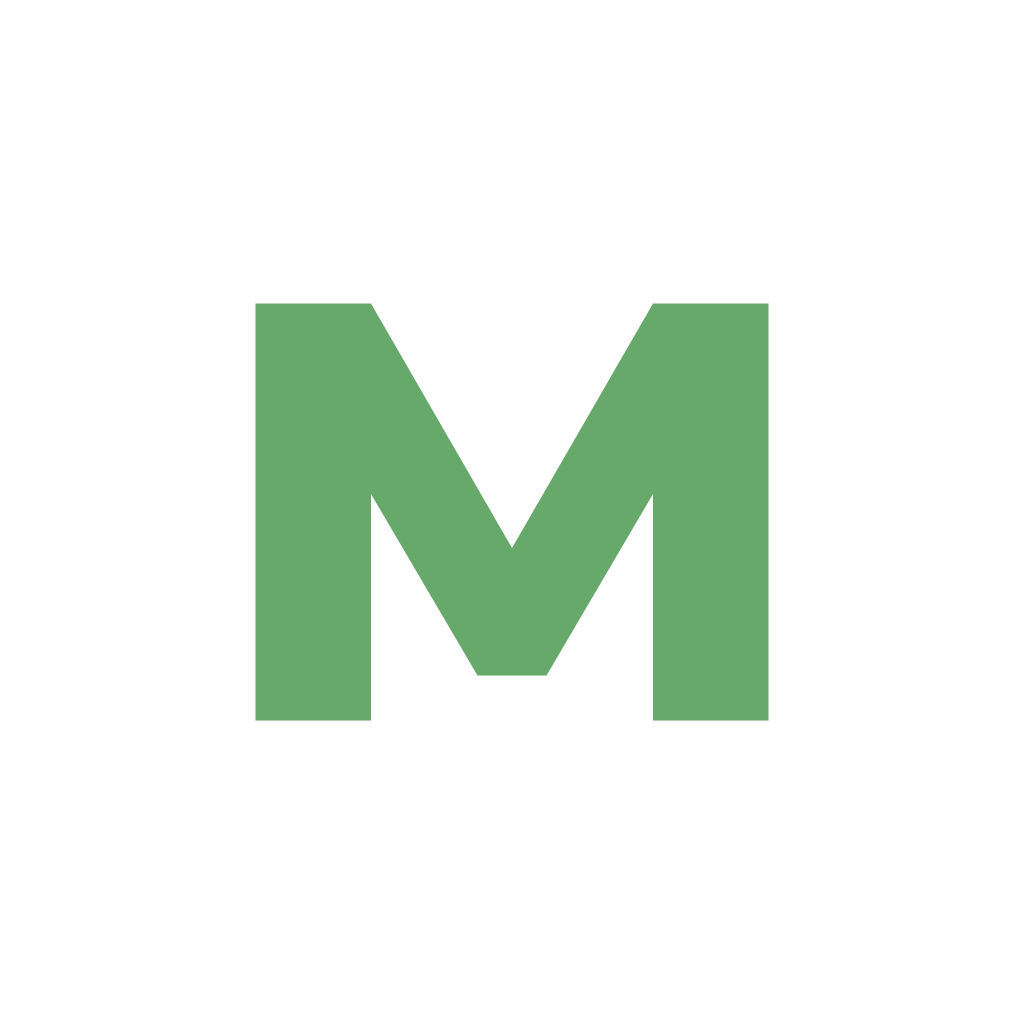
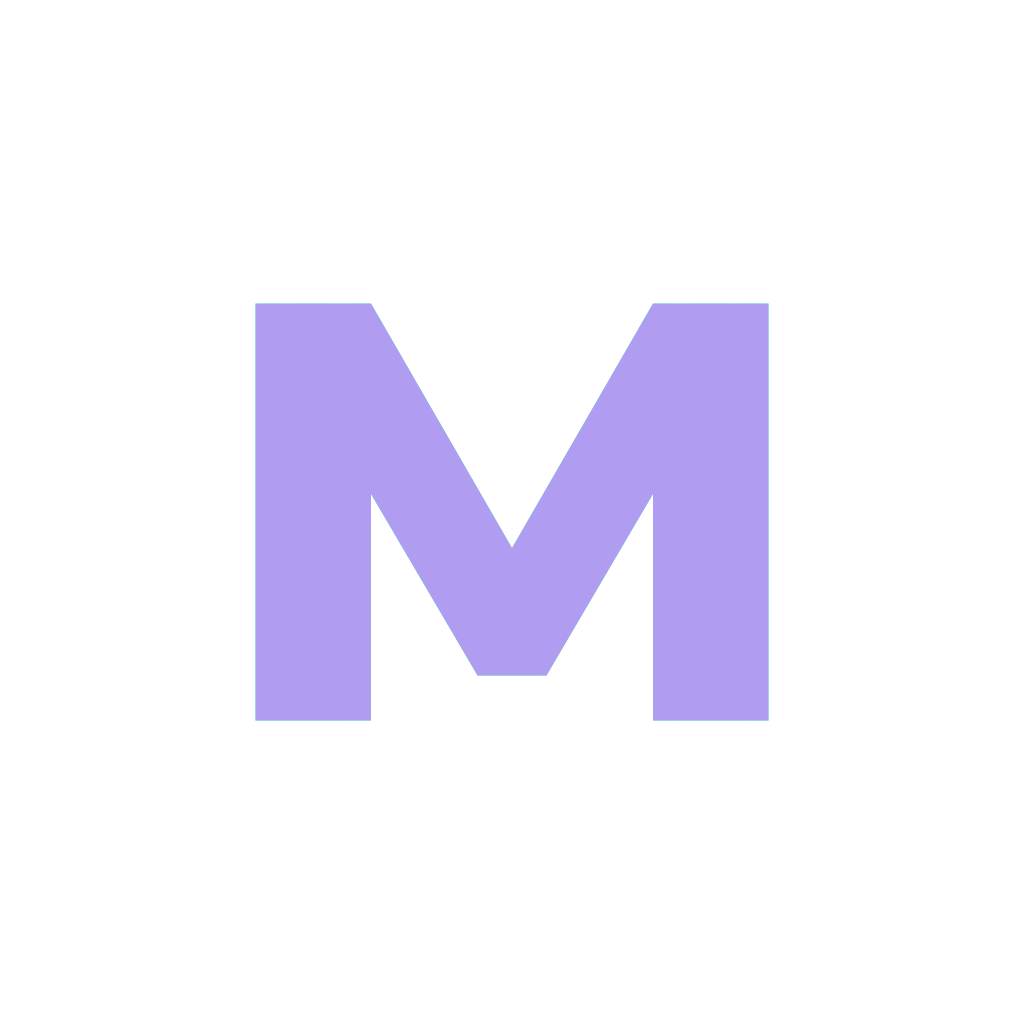
update assets with correct colour + add domain model diagram to code desc

Changed region(s): [[0.25, 0.2812, 0.75, 0.7188]]

diff --git a/docs/Codebase Description.md b/docs/Codebase Description.md
@@ -62,7 +62,7 @@ EXPO_PUBLIC_SUPABASE_ANON_KEY='YOUR PUBLISHABLE KEY'
 
 Below is a diagram of the codebase.
 
-\[insert domain model\]
+<img src="images/domainmodel.png" alt="domain model" width=360px height=640px>
 
 The repository structure is described below:
 
